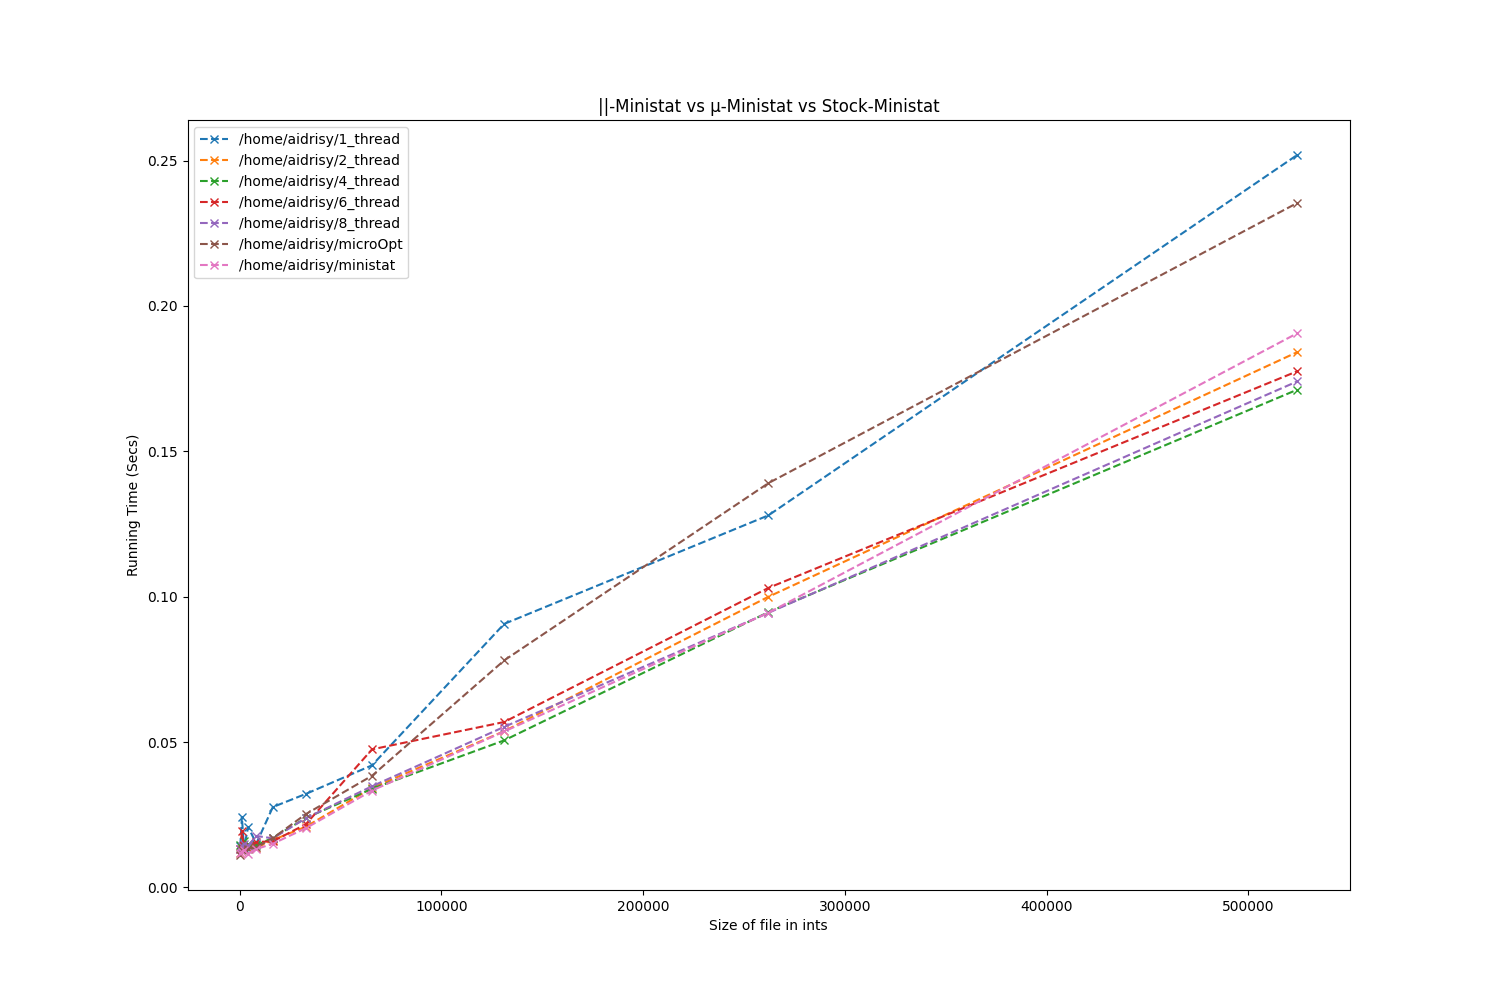
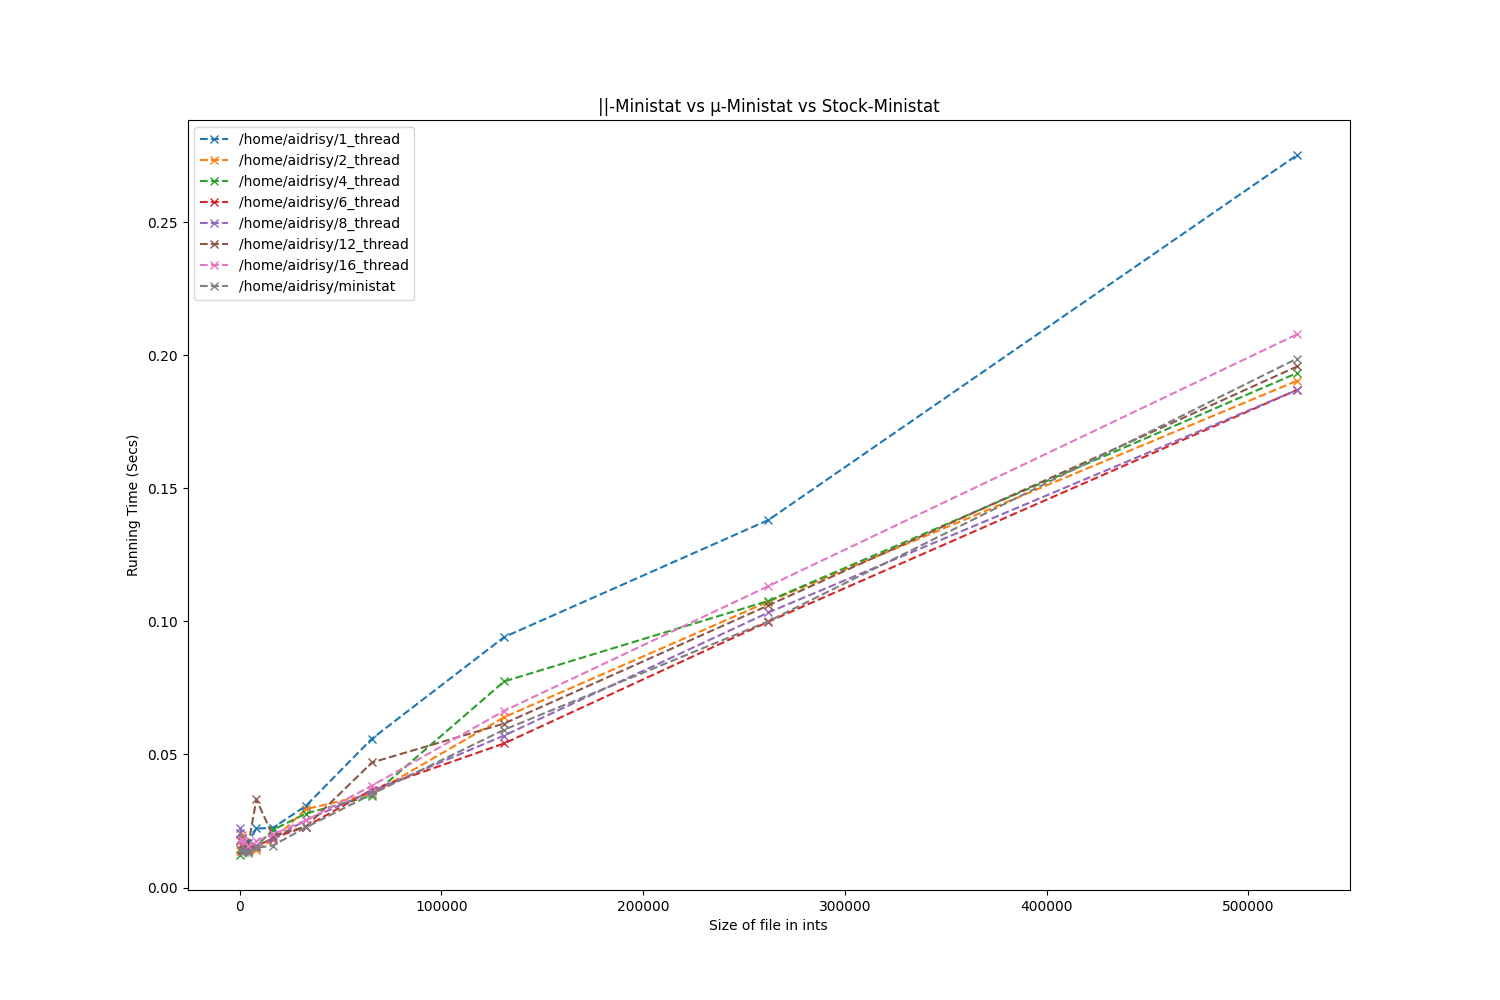
Add analysis to readme.md

diff --git a/plot.py b/plot.py
@@ -8,9 +8,11 @@ results = {}
 def runInputDeck():
     global results
     ministatPaths = ["/home/aidrisy/1_thread","/home/aidrisy/2_thread","/home/aidrisy/4_thread",
-                    "/home/aidrisy/6_thread","/home/aidrisy/8_thread","/home/aidrisy/microOpt",
-                    "/home/aidrisy/ministat"]
+                    "/home/aidrisy/6_thread","/home/aidrisy/8_thread","/home/aidrisy/12_thread",
+                    "/home/aidrisy/16_thread","/home/aidrisy/ministat"]
     inputFilesPath = "~/ccny59866/inputFiles"
+
+    #"/home/aidrisy/microOpt"
         
     files = os.listdir("inputFiles")
     for path in ministatPaths:
@@ -56,13 +58,13 @@ def sortAndPlot():
     print(f"Difs = {diffs}")
 
     plt.figure(figsize=(15,10))
-    plt.title("||-Ministat vs µ-Ministat vs Stock-Ministat")
+    plt.title("||-Ministat vs Stock-Ministat")
     plt.xlabel("Size of file in ints")
     plt.ylabel("Running Time (Secs)")
     for i in range(0,len(plotTimes)):
         plt.plot(keys,plotTimes[i],'x--',label=labels[i])
     plt.legend(loc="upper left")
-    plt.savefig("parallel_vs_micro_vs_stock.png")
+    plt.savefig("parallel_vs_stock.png")
 
 
 def main():

diff --git a/ministat.c b/ministat.c
@@ -505,6 +505,7 @@ struct partition
 	int col;
 	struct dataset * dataSet;
 	int thread;
+	int timeElapse = 0;
 };
 
 struct partition *
@@ -541,6 +542,8 @@ ReadPartition(void * part)
 	int column = partition->col;
 	struct dataset * localSet = partition->dataSet;
 	int threadNumber = partition->thread;
+
+
 	//printf("Thread Number = %d \n",threadNumber);
 
 	//Thread local dataset setup
@@ -645,7 +648,6 @@ ReadPartition(void * part)
 					if (z == column)
 						break;
 				}
-				
 				if (t == NULL || *t == '#')
 					continue;
 
@@ -686,7 +688,7 @@ ReadSet(const char *n, int column, const char *delim)
 		n = STDIN_FILENO;
 	} else if (!strcmp(n, "-")) {
 		fileDescriptor = STDIN_FILENO;
-		n = STDIN_FILENO ;
+		n = STDIN_FILENO;
 	} else {
 		// Open the file specified
 		// n = argv[1:];

diff --git a/README.md b/README.md
@@ -1,12 +1,48 @@
-# CCNY 59866
+# CCNY 59866 Senior Design Project
+Fall 2020 Semester
 
-Professor : Samy Al Bahra 
+## Members: 
+	- Arikuzzaman Idrisy
+	- Ersi Nurcellari
+	- Fathima Reeza
+	- Haibin Mai
+
+## Goal: 
+Increase the performance of pre-existing ministat program. The objective was two fold, one, execute micro-optimizations uncovered through framegraph analysis, two, introduce mutli-threading for parallel execution.
+
+## Proposed Micro-Optimizations
+- Reading the file contents.
+Use read / write / open systems calls directly to read larger blocks of data at a time. 
+	- Hurdle: Seems the gain is very minimal and not less than CPU Noise
+	- Solution: Dont use it?
+<img src="micro_vs_stock.png">
+- String tokenization
+strtok is not is fast nor thread safe. Swap it out and use strsep instead or use memchr.
+- String to double conversion.
+Replace the standard C library strtod function with an open-source alternative.
+- qsort 
+Replace the standard C library qsort with a faster inline sorting algorthim. https://github.com/appnexus/acf/blob/master/common/an_qsort.inc
+
+## Multi Threading Schema
+### Parallel File Parsing
+- Objective: For a single file passed to ministat have multiple threads simultaneously read from the file
+- Requires reworking the raw I/O micro-optimization to use pread for thread safety
+	- Solved by manually keeping track of the cursor point
+- Partitoning scheme was a bit counterintuive. Instead of each partion being equal number of bytes, they are set to hold whole integers. This requries looking ahead to find a \n character and adjusting the end and start points of the partitions accodingly
+- Hurdle: Using one `struct dataset` per file is two slow. Using a mutex to protect writing to the dataset marginilzes any gains obtained from parallelizations.
+	- Solution: Have each thread work on their own local `struct dataset`. Create the thread local datasets in the `ReadSet` function and pass it in `partition` to the `ReadPartition` function. When joining the threads call `MergeDataset` which will merge the thread local datasets to the dataset for the file. 
+	- __This shows performance gains.__
+
+<img src="images/parallel_vs_stock.png">
+
+This graph shows interesting behavior, 6 threads is higher than the baseline `ministat` edition. Two and four threads almost equaly performant as the baseline. Eight threads shows a clear performance gain on large file sizes.
+
 
 
 ---
 
-
-# ministat
+# Pre-Existing README
+## ministat
 A small tool to do the statistics legwork on benchmarks etc.
 
 Written by Poul-Henning Kamp, lured into a dark Linux alley and clubbed over the head and hauled away to Github by yours truly.
